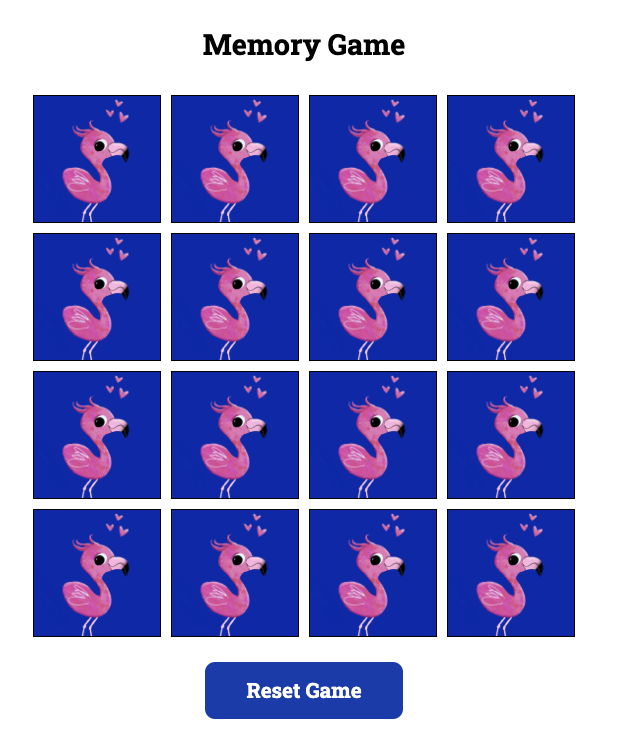
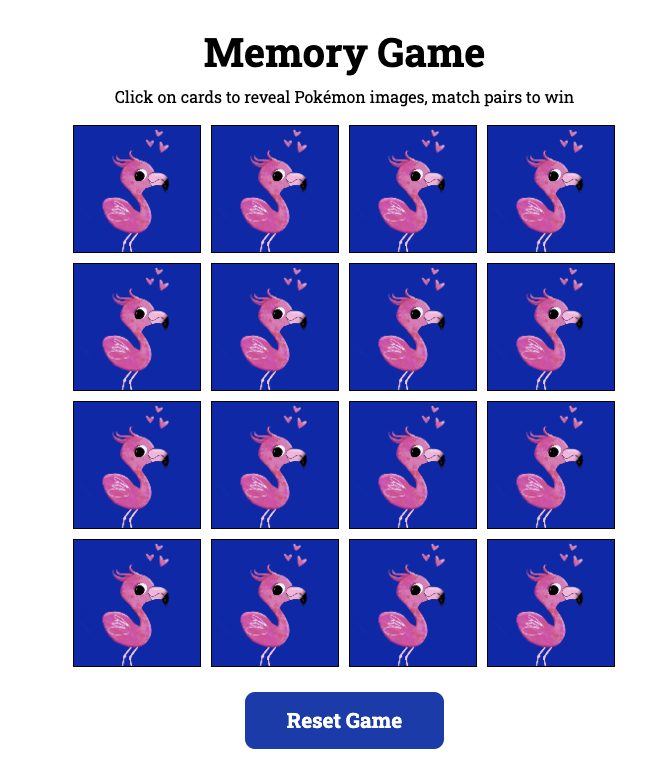
finalize

diff --git a/src/components/Card.jsx b/src/components/Card.jsx
@@ -21,7 +21,7 @@ export default function Card() {
     setIsLoading(true); //SET LOADING STATE TO TRUE
 
     //Fetch Pokémon data from the API
-    fetch("https://pokeapi.co/api/v2/pokemon?limit=8")
+    fetch("https://pokeapi.co/api/v2/pokemon?limit=24")
       .then((res) => res.json()) //PARSE THE RESPONSE AS JSON
       .then((data) => {
         //Extract pokemonNames from the API response
@@ -60,6 +60,10 @@ export default function Card() {
     setGameOver(false);
     fetchPokemons();
   };
+
+  useEffect(() => {
+    resetGame();
+  }, []);
 
   //USE EFFECT HOOK TO FETCH POKEMON DATA WHEN THE COMPONENT MOUNTS
   useEffect(() => {
@@ -115,7 +119,16 @@ export default function Card() {
   //RETURN JSX FOR THE CARD COMPONENT
   return (
     <section className="game-container">
-      {gameOver ? <h1>Yay! Way to go!✨</h1> : <h1>Memory Game</h1>}
+      {gameOver ? (
+        <h1>Yay! Way to go!✨</h1>
+      ) : (
+        <>
+          <h1>Memory Game</h1>
+          <p className="instructions">
+            Click on cards to reveal Pokémon images, match pairs to win
+          </p>
+        </>
+      )}
       {isLoading ? (
         <p>Loading...</p>
       ) : (

diff --git a/src/index.css b/src/index.css
@@ -16,8 +16,11 @@ canvas {
 }
 
 h1 {
-  font-size: 1.8rem;
-  margin-bottom: 1.1em;
+  font-size: 2.5rem;
+}
+
+.instructions {
+  margin: 0.5em 0 1.1em 0;
 }
 
 .game-container {
@@ -25,8 +28,9 @@ h1 {
   flex-direction: column;
   align-items: center;
   justify-content: center;
-  margin-top: 100px;
   font-family: "Roboto Slab", serif;
+  width: 90%;
+  margin: 3em auto;
 }
 
 .cards-grid {
@@ -41,12 +45,6 @@ h1 {
   border: 1px solid #000;
   cursor: pointer;
 }
-
-/* .card img {
-  width: 100%;
-  height: 100%;
-  object-fit: cover;
-} */
 
 .card.selected {
   background-color: #ffc107;
@@ -77,11 +75,21 @@ h1 {
 
 @media screen and (max-width: 768px) {
   h1 {
-    font-size: 1.2rem;
+    font-size: 1.5rem;
+  }
+
+  .instructions {
+    font-size: 0.8;
+    text-align: center;
   }
 
   .card {
-    width: 5em;
-    height: 5em;
+    width: 4.2em;
+    height: 4.2em;
+  }
+
+  .reset-btn {
+    padding: 0.4em 1em;
+    margin-top: 1.2em;
   }
 }

diff --git a/README.md b/README.md
@@ -1,80 +1,73 @@
-# Pokemon Memory Game
+# Memory Game: Pokémon Edition
 
-## Table of contents
+### About
 
-- [Overview](#overview)
-  - [The challenge](#the-challenge)
-  - [Screenshot](#screenshot)
-- [My process](#my-process)
-  - [Built with](#built-with)
-  - [Challenges along the way](#challenges-along-the-way)
-  - [What I learned](#what-i-learned)
-- [Resources](#resources)
+This is a fun and interactive memory game built using React Vite and the Pokémon API.
 
-## Overview
+### How to play
 
-### The challenge
+#### Gameplay:
 
-A fun memory game built with React Vite and Pokemon API.
-
-The app will hold 8 images x 2 and the user has to flip two cards at time to find the two images that are the same.
-
-The game has a reset button and when the game resets another set of 8 images will load.
+- The app pulls 8 random pairs of Pokémon images from the PokéAPI (currently from 24 cards in total).
+- The player clicks on any two cards to reveal their Pokémon images.
+- If the images match the two cards disappear
+- If the images don't match, they flip back over after a short delay.
+- Continue flipping pairs until all cards are matched and removed from the board
+- When all cards are gone, a congratulatory message appears
+- The player can reset the game at any time to play again.
 
 ### Screenshot
 
-![](./assets/flamingo.png)
+![](./public/assets/screenshot.png)
 
 ## My process
 
+I have always loved to play the memory game. Here's a simple version built from scratch.
+
+Things to consider:
+
+- Build my next project based on a figma file
+- The back of the cards display a pink flamingo that I have illustrated. The flamingo art and the Pokémons don't match in style. Later on, I can perhaps create an API based on my own art 😅
+
 ### Built with
 
-- HTML, CSS, React Vite
-- Pokemon API
-
-### Challenges along the way
+- HTML, CSS, React Vite and Pokemon API
 
 ### What I learned and bugs to be worked on
 
-- Need to make sure that the game begins on the start page
-- Need to make sure that when a new game starts a new set of pokemons is pulled from the API
-- Work on the title and overall layout to make it look more professional
-- Add a description of the game for the user
-- Perhaps add a timer so that confetti rains down if user solves the game within a set time
+- Ensured that the game begins on the start page using the following code:
 
-Hopefully, I can remember this way of fetching API's going forward.
+```js
+useEffect(() => {
+  resetGame();
+}, []);
+```
 
-```jsx
-const fetchPokemons = () => {
-  setIsLoading(true);
+- Ensured that when a new game starts a new set of pokemons is pulled from the API. I set the limit pulled to 24.
 
-  fetch("https://pokeapi.co/api/v2/pokemon?limit=8")
-    .then((res) => res.json())
-    .then((data) => {
-      //Extract pokemon names and images
-      const pokemonPromise = data.results.map((pokemon) =>
-        fetch(pokemon.url)
-          .then((res) => res.json())
-          .then((details) => ({
-            name: pokemon.name,
-            image: details.sprites.front_default,
-          }))
-      );
-      return pokemonPromise.reduce((chain, promise) => {
-        return chain.then((results) =>
-          promise.then((result) => [...results, result])
-        );
-      }, Promise.resolve([]));
-    })
-    .then((pokemonDetails) => {
-      setPokemons(pokemonDetails);
-      setIsLoading(false);
-    })
-    .catch((error) => {
-      console.error("Error fetching Pokémon data:", error);
-      setIsLoading(false);
-    });
-};
+```js
+fetch("https://pokeapi.co/api/v2/pokemon?limit=24");
+```
+
+- Added instructions to the player, remembering to include fragment tags within the ternary operator.
+
+```js
+ return (
+    <section className="game-container">
+      {gameOver ? (
+        <h1>Yay! Way to go!✨</h1>
+      ) : (
+        <>
+          <h1>Memory Game</h1>
+          <p className="instructions">
+            Click on cards to reveal Pokémon images, match pairs to win
+          </p>
+        </>
+      )}
+      {isLoading ? (
+        <p>Loading...</p>
+      ) : (
+        //Render the Pokemon cards if data is loaded
 ```
 
 ## Resources
